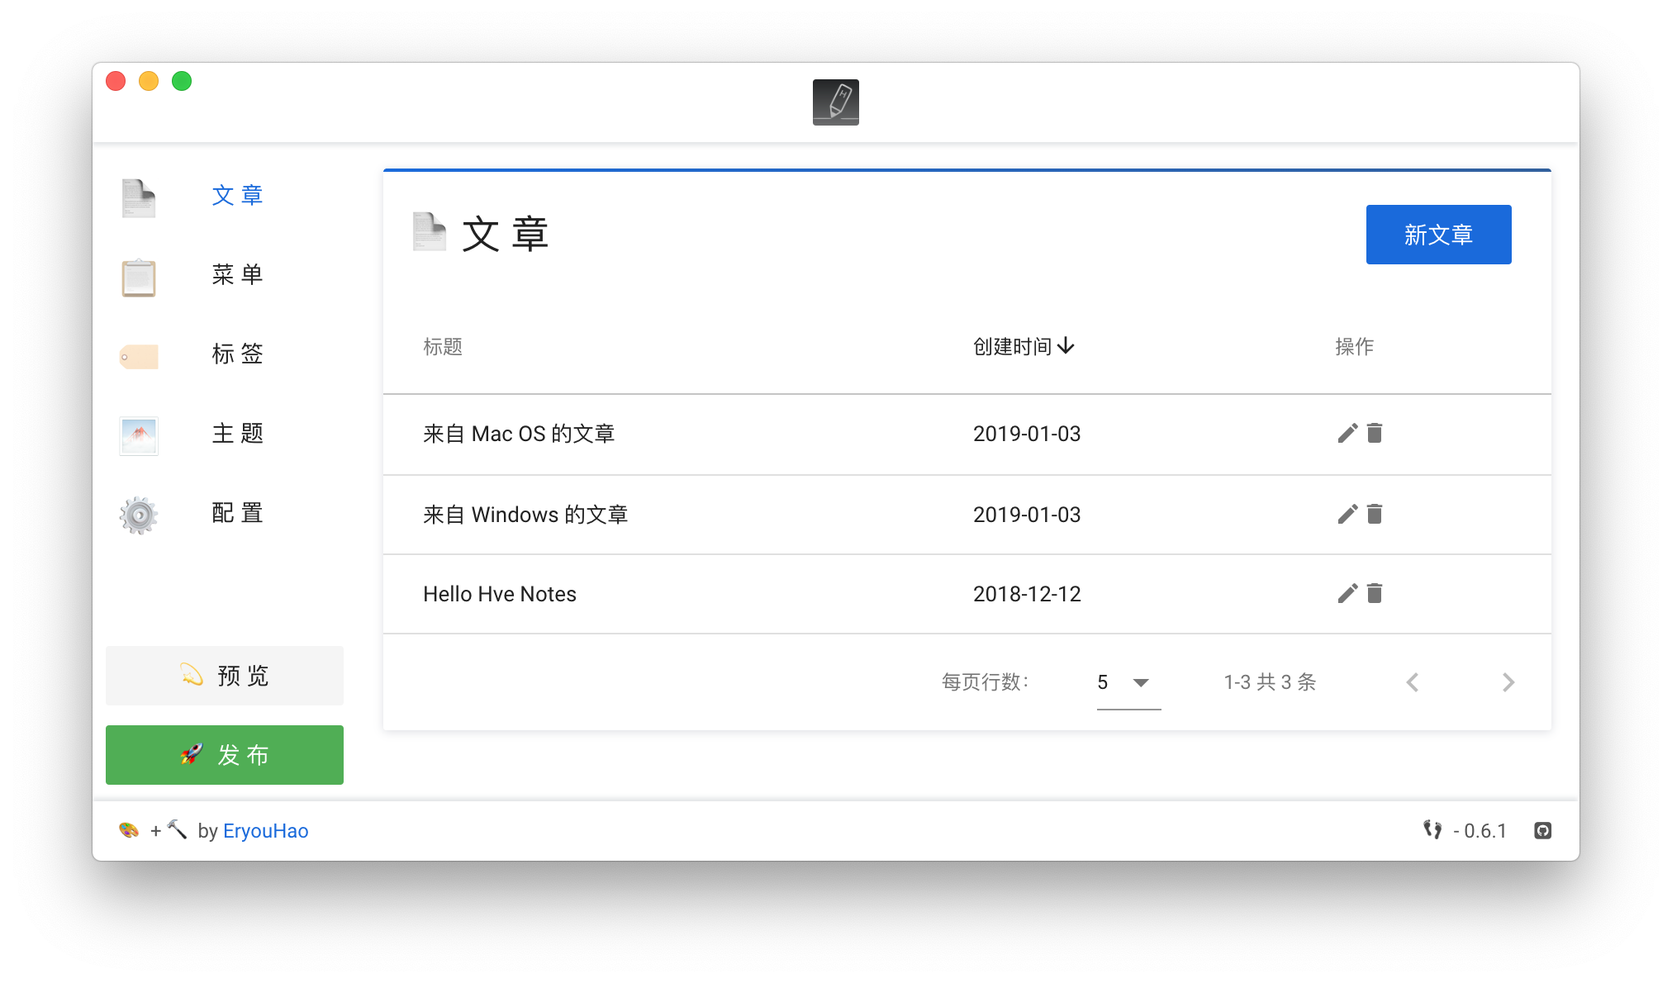
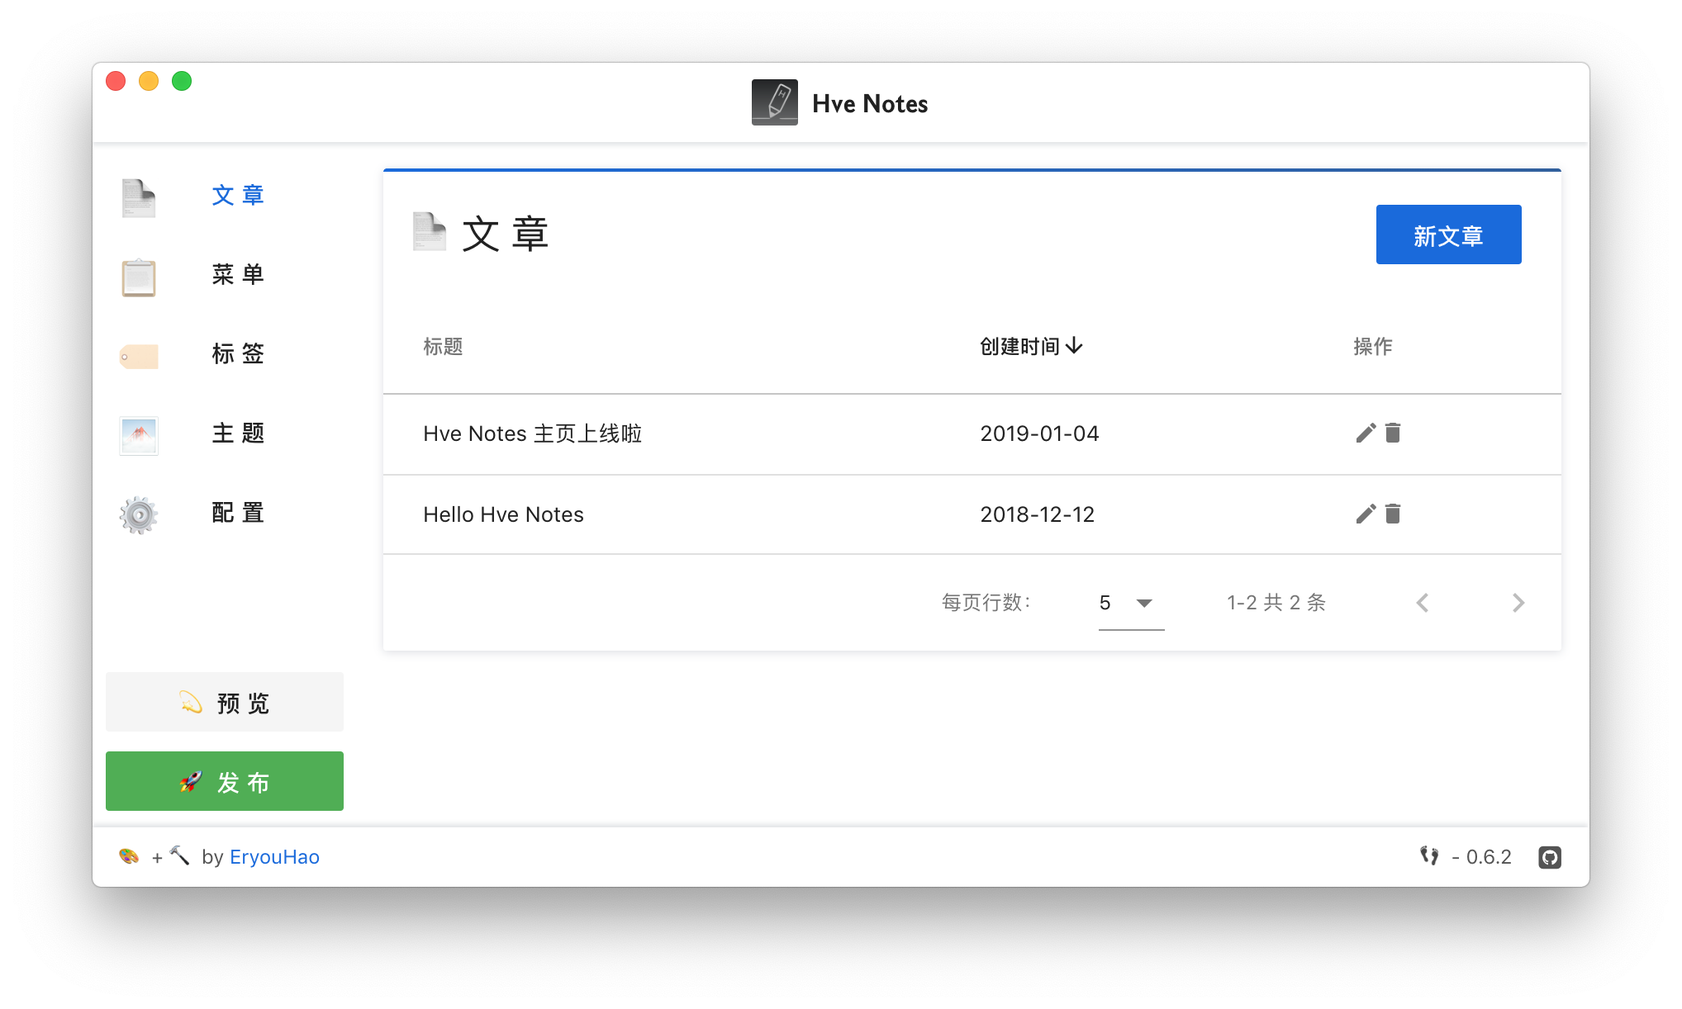
docs: update version

diff --git a/.vuepress/dist/docs/index.html b/.vuepress/dist/docs/index.html
@@ -7,8 +7,8 @@
     <meta name="description" content="Hve Notes">
     <link rel="icon" href="/logo.ico">
     
-    <link rel="preload" href="/assets/css/0.styles.d24fb2f3.css" as="style"><link rel="preload" href="/assets/js/app.9bc21277.js" as="script"><link rel="preload" href="/assets/js/6.00187efa.js" as="script"><link rel="prefetch" href="/assets/js/2.d9c22800.js"><link rel="prefetch" href="/assets/js/3.5a4ba81a.js"><link rel="prefetch" href="/assets/js/4.4b7f58ba.js"><link rel="prefetch" href="/assets/js/5.660c18aa.js"><link rel="prefetch" href="/assets/js/7.9b3d5868.js">
-    <link rel="stylesheet" href="/assets/css/0.styles.d24fb2f3.css">
+    <link rel="preload" href="/assets/css/0.styles.d261f6e4.css" as="style"><link rel="preload" href="/assets/js/app.a743d22b.js" as="script"><link rel="preload" href="/assets/js/6.31f2fc13.js" as="script"><link rel="prefetch" href="/assets/js/2.dea517cc.js"><link rel="prefetch" href="/assets/js/3.37ec507d.js"><link rel="prefetch" href="/assets/js/4.0caf79b4.js"><link rel="prefetch" href="/assets/js/5.87f26443.js"><link rel="prefetch" href="/assets/js/7.f8f392ad.js">
+    <link rel="stylesheet" href="/assets/css/0.styles.d261f6e4.css">
   </head>
   <body>
     <div id="app" data-server-rendered="true"><div class="theme-container"><header class="navbar"><div class="sidebar-button"><svg xmlns="http://www.w3.org/2000/svg" aria-hidden="true" role="img" viewBox="0 0 448 512" class="icon"><path fill="currentColor" d="M436 124H12c-6.627 0-12-5.373-12-12V80c0-6.627 5.373-12 12-12h424c6.627 0 12 5.373 12 12v32c0 6.627-5.373 12-12 12zm0 160H12c-6.627 0-12-5.373-12-12v-32c0-6.627 5.373-12 12-12h424c6.627 0 12 5.373 12 12v32c0 6.627-5.373 12-12 12zm0 160H12c-6.627 0-12-5.373-12-12v-32c0-6.627 5.373-12 12-12h424c6.627 0 12 5.373 12 12v32c0 6.627-5.373 12-12 12z"></path></svg></div> <a href="/" class="home-link router-link-active"><!----> <span class="site-name">𝗛𝘃𝗲 𝗡𝗼𝘁𝗲𝘀</span></a> <div class="links" style="max-width:nullpx;"><div class="search-box"><input aria-label="Search" autocomplete="off" spellcheck="false" value=""> <!----></div> <nav class="nav-links can-hide"><div class="nav-item"><a href="/" class="nav-link">首页</a></div><div class="nav-item"><a href="/docs/" class="nav-link router-link-exact-active router-link-active">文档</a></div><div class="nav-item"><a href="http://fehey.com/" target="_blank" rel="noopener noreferrer" class="nav-link external">
@@ -19,7 +19,7 @@
   示例站点
   <svg xmlns="http://www.w3.org/2000/svg" aria-hidden="true" x="0px" y="0px" viewBox="0 0 100 100" width="15" height="15" class="icon outbound"><path fill="currentColor" d="M18.8,85.1h56l0,0c2.2,0,4-1.8,4-4v-32h-8v28h-48v-48h28v-8h-32l0,0c-2.2,0-4,1.8-4,4v56C14.8,83.3,16.6,85.1,18.8,85.1z"></path> <polygon fill="currentColor" points="45.7,48.7 51.3,54.3 77.2,28.5 77.2,37.2 85.2,37.2 85.2,14.9 62.8,14.9 62.8,22.9 71.5,22.9"></polygon></svg></a></div> <a href="https://github.com/hve-notes/hve-notes" target="_blank" rel="noopener noreferrer" class="repo-link">
     GitHub
-    <svg xmlns="http://www.w3.org/2000/svg" aria-hidden="true" x="0px" y="0px" viewBox="0 0 100 100" width="15" height="15" class="icon outbound"><path fill="currentColor" d="M18.8,85.1h56l0,0c2.2,0,4-1.8,4-4v-32h-8v28h-48v-48h28v-8h-32l0,0c-2.2,0-4,1.8-4,4v56C14.8,83.3,16.6,85.1,18.8,85.1z"></path> <polygon fill="currentColor" points="45.7,48.7 51.3,54.3 77.2,28.5 77.2,37.2 85.2,37.2 85.2,14.9 62.8,14.9 62.8,22.9 71.5,22.9"></polygon></svg></a></nav>  <ul class="sidebar-links"><li><div class="sidebar-group first"><p class="sidebar-heading open"><span>文档</span> <!----></p> <ul class="sidebar-group-items"><li><a href="/docs/" class="active sidebar-link">快速开始</a><ul class="sidebar-sub-headers"></ul></li></ul></div></li></ul> </div> <div class="page"> <div class="content"><h1 id="快速开始"><a href="#快速开始" aria-hidden="true" class="header-anchor">#</a> 快速开始</h1> <h3 id="下载安装"><a href="#下载安装" aria-hidden="true" class="header-anchor">#</a> 下载安装</h3> <p>目前 Hve Notes 还处于比较早期阶段，建议直接下载最新版以使用最新功能</p> <h3 id="进行配置"><a href="#进行配置" aria-hidden="true" class="header-anchor">#</a> 进行配置</h3> <p>进入应用的配置界面，进行应用的初始化配置。</p> <p>域名：Github Pages 对应的域名（例如：<code>http://fehey.com/hve-next</code> 或 <code>http://eryouhao.github.io</code>）</p> <p>仓库：静态文件存放的仓库（例如：<code>hve-next</code>）</p> <p>分支：Github Pages 对应的分支（例如：<code>master</code>）</p> <p>用户名：Git 推送时的用户名，等同于在 Git Repo 中配置 <code>git config user.name &quot;用户名&quot;</code></p> <p>邮箱：Git 推送时的邮箱，等同于在 Git Repo 中配置 <code>git config user.email &quot;邮箱&quot;</code></p> <p>Token: Git 推送时需要的 Token，用来向 Github 提交构建后的文件 <a href="https://github.com/settings/tokens" target="_blank" rel="noopener noreferrer">Github personal access tokens<svg xmlns="http://www.w3.org/2000/svg" aria-hidden="true" x="0px" y="0px" viewBox="0 0 100 100" width="15" height="15" class="icon outbound"><path fill="currentColor" d="M18.8,85.1h56l0,0c2.2,0,4-1.8,4-4v-32h-8v28h-48v-48h28v-8h-32l0,0c-2.2,0-4,1.8-4,4v56C14.8,83.3,16.6,85.1,18.8,85.1z"></path> <polygon fill="currentColor" points="45.7,48.7 51.3,54.3 77.2,28.5 77.2,37.2 85.2,37.2 85.2,14.9 62.8,14.9 62.8,22.9 71.5,22.9"></polygon></svg></a></p> <h3 id="更新菜单"><a href="#更新菜单" aria-hidden="true" class="header-anchor">#</a> 更新菜单</h3> <p>进入应用的菜单界面，进行默认菜单: 首页的 <code>link</code> 更新</p> <div class="tip custom-block"><p class="custom-block-title">提示</p> <p>首页可同配置中的域名，可以手动输入 <code>link</code> 或 选择下拉选择中的 Hompage</p></div> <h3 id="尽情创作"><a href="#尽情创作" aria-hidden="true" class="header-anchor">#</a> 尽情创作</h3> <p>进入应用的文章界面，进行新文章的创作吧！</p> <p>😘Enjoy！</p></div> <div class="page-edit"><!----> <div class="last-updated"><span class="prefix">最后更新于: </span> <span class="time">1/3/2019, 3:03:55 PM</span></div></div> <!----> </div> <!----></div></div>
-    <script src="/assets/js/app.9bc21277.js" defer></script><script src="/assets/js/6.00187efa.js" defer></script>
+    <svg xmlns="http://www.w3.org/2000/svg" aria-hidden="true" x="0px" y="0px" viewBox="0 0 100 100" width="15" height="15" class="icon outbound"><path fill="currentColor" d="M18.8,85.1h56l0,0c2.2,0,4-1.8,4-4v-32h-8v28h-48v-48h28v-8h-32l0,0c-2.2,0-4,1.8-4,4v56C14.8,83.3,16.6,85.1,18.8,85.1z"></path> <polygon fill="currentColor" points="45.7,48.7 51.3,54.3 77.2,28.5 77.2,37.2 85.2,37.2 85.2,14.9 62.8,14.9 62.8,22.9 71.5,22.9"></polygon></svg></a></nav>  <ul class="sidebar-links"><li><div class="sidebar-group first"><p class="sidebar-heading open"><span>文档</span> <!----></p> <ul class="sidebar-group-items"><li><a href="/docs/" class="active sidebar-link">快速开始</a><ul class="sidebar-sub-headers"></ul></li></ul></div></li></ul> </div> <div class="page"> <div class="content"><h1 id="快速开始"><a href="#快速开始" aria-hidden="true" class="header-anchor">#</a> 快速开始</h1> <h3 id="下载安装"><a href="#下载安装" aria-hidden="true" class="header-anchor">#</a> 下载安装</h3> <p>目前 Hve Notes 还处于比较早期阶段，建议直接下载最新版以使用最新功能</p> <h3 id="进行基础配置"><a href="#进行基础配置" aria-hidden="true" class="header-anchor">#</a> 进行基础配置</h3> <p>进入应用的配置界面，进行应用的初始化配置。</p> <p>域名：Github Pages 对应的域名（例如：<code>http://fehey.com/hve-next</code> 或 <code>http://eryouhao.github.io</code>）</p> <p>仓库：静态文件存放的仓库（例如：<code>hve-next</code>）</p> <p>分支：Github Pages 对应的分支（例如：<code>master</code>）</p> <p>用户名：Git 推送时的用户名，等同于在 Git Repo 中配置 <code>git config user.name &quot;用户名&quot;</code></p> <p>邮箱：Git 推送时的邮箱，等同于在 Git Repo 中配置 <code>git config user.email &quot;邮箱&quot;</code></p> <p>Token: Git 推送时需要的 Token，用来向 Github 提交构建后的文件 <a href="https://github.com/settings/tokens" target="_blank" rel="noopener noreferrer">Github personal access tokens<svg xmlns="http://www.w3.org/2000/svg" aria-hidden="true" x="0px" y="0px" viewBox="0 0 100 100" width="15" height="15" class="icon outbound"><path fill="currentColor" d="M18.8,85.1h56l0,0c2.2,0,4-1.8,4-4v-32h-8v28h-48v-48h28v-8h-32l0,0c-2.2,0-4,1.8-4,4v56C14.8,83.3,16.6,85.1,18.8,85.1z"></path> <polygon fill="currentColor" points="45.7,48.7 51.3,54.3 77.2,28.5 77.2,37.2 85.2,37.2 85.2,14.9 62.8,14.9 62.8,22.9 71.5,22.9"></polygon></svg></a></p> <p>CNAME: 若网站有自定义域名，则可通过此设置（例如：<code>fehey.com</code>）</p> <h3 id="更新菜单"><a href="#更新菜单" aria-hidden="true" class="header-anchor">#</a> 更新菜单</h3> <p>进入应用的菜单界面，进行默认菜单: 首页的 <code>link</code> 更新</p> <div class="tip custom-block"><p class="custom-block-title">提示</p> <p>首页可同配置中的域名，可以手动输入 <code>link</code> 或 选择下拉选择中的 Hompage</p></div> <h3 id="更新-gitalk-配置（可选）"><a href="#更新-gitalk-配置（可选）" aria-hidden="true" class="header-anchor">#</a> 更新 Gitalk 配置（可选）</h3> <p><a href="https://github.com/gitalk/gitalk/blob/master/readme-cn.md" target="_blank" rel="noopener noreferrer">Gitalk<svg xmlns="http://www.w3.org/2000/svg" aria-hidden="true" x="0px" y="0px" viewBox="0 0 100 100" width="15" height="15" class="icon outbound"><path fill="currentColor" d="M18.8,85.1h56l0,0c2.2,0,4-1.8,4-4v-32h-8v28h-48v-48h28v-8h-32l0,0c-2.2,0-4,1.8-4,4v56C14.8,83.3,16.6,85.1,18.8,85.1z"></path> <polygon fill="currentColor" points="45.7,48.7 51.3,54.3 77.2,28.5 77.2,37.2 85.2,37.2 85.2,14.9 62.8,14.9 62.8,22.9 71.5,22.9"></polygon></svg></a></p> <h3 id="尽情创作"><a href="#尽情创作" aria-hidden="true" class="header-anchor">#</a> 尽情创作</h3> <p>进入应用的文章界面，进行新文章的创作吧！</p> <p>😘Enjoy！</p></div> <div class="page-edit"><!----> <div class="last-updated"><span class="prefix">最后更新于: </span> <span class="time">1/3/2019, 3:03:55 PM</span></div></div> <!----> </div> <!----></div></div>
+    <script src="/assets/js/app.a743d22b.js" defer></script><script src="/assets/js/6.31f2fc13.js" defer></script>
   </body>
 </html>

diff --git a/.vuepress/dist/index.html b/.vuepress/dist/index.html
@@ -7,8 +7,8 @@
     <meta name="description" content="Hve Notes">
     <link rel="icon" href="/logo.ico">
     
-    <link rel="preload" href="/assets/css/0.styles.d24fb2f3.css" as="style"><link rel="preload" href="/assets/js/app.9bc21277.js" as="script"><link rel="preload" href="/assets/js/5.660c18aa.js" as="script"><link rel="preload" href="/assets/js/3.5a4ba81a.js" as="script"><link rel="prefetch" href="/assets/js/2.d9c22800.js"><link rel="prefetch" href="/assets/js/4.4b7f58ba.js"><link rel="prefetch" href="/assets/js/6.00187efa.js"><link rel="prefetch" href="/assets/js/7.9b3d5868.js">
-    <link rel="stylesheet" href="/assets/css/0.styles.d24fb2f3.css">
+    <link rel="preload" href="/assets/css/0.styles.d261f6e4.css" as="style"><link rel="preload" href="/assets/js/app.a743d22b.js" as="script"><link rel="preload" href="/assets/js/5.87f26443.js" as="script"><link rel="preload" href="/assets/js/3.37ec507d.js" as="script"><link rel="prefetch" href="/assets/js/2.dea517cc.js"><link rel="prefetch" href="/assets/js/4.0caf79b4.js"><link rel="prefetch" href="/assets/js/6.31f2fc13.js"><link rel="prefetch" href="/assets/js/7.f8f392ad.js">
+    <link rel="stylesheet" href="/assets/css/0.styles.d261f6e4.css">
   </head>
   <body>
     <div id="app" data-server-rendered="true"><div class="theme-container no-sidebar hve-home"><header class="navbar"><div class="sidebar-button"><svg xmlns="http://www.w3.org/2000/svg" aria-hidden="true" role="img" viewBox="0 0 448 512" class="icon"><path fill="currentColor" d="M436 124H12c-6.627 0-12-5.373-12-12V80c0-6.627 5.373-12 12-12h424c6.627 0 12 5.373 12 12v32c0 6.627-5.373 12-12 12zm0 160H12c-6.627 0-12-5.373-12-12v-32c0-6.627 5.373-12 12-12h424c6.627 0 12 5.373 12 12v32c0 6.627-5.373 12-12 12zm0 160H12c-6.627 0-12-5.373-12-12v-32c0-6.627 5.373-12 12-12h424c6.627 0 12 5.373 12 12v32c0 6.627-5.373 12-12 12z"></path></svg></div> <a href="/" class="home-link router-link-exact-active router-link-active"><!----> <span class="site-name">𝗛𝘃𝗲 𝗡𝗼𝘁𝗲𝘀</span></a> <div class="links" style="max-width:nullpx;"><div class="search-box"><input aria-label="Search" autocomplete="off" spellcheck="false" value=""> <!----></div> <nav class="nav-links can-hide"><div class="nav-item"><a href="/" class="nav-link router-link-exact-active router-link-active">首页</a></div><div class="nav-item"><a href="/docs/" class="nav-link">文档</a></div><div class="nav-item"><a href="http://fehey.com/" target="_blank" rel="noopener noreferrer" class="nav-link external">
@@ -21,7 +21,7 @@
     GitHub
     <svg xmlns="http://www.w3.org/2000/svg" aria-hidden="true" x="0px" y="0px" viewBox="0 0 100 100" width="15" height="15" class="icon outbound"><path fill="currentColor" d="M18.8,85.1h56l0,0c2.2,0,4-1.8,4-4v-32h-8v28h-48v-48h28v-8h-32l0,0c-2.2,0-4,1.8-4,4v56C14.8,83.3,16.6,85.1,18.8,85.1z"></path> <polygon fill="currentColor" points="45.7,48.7 51.3,54.3 77.2,28.5 77.2,37.2 85.2,37.2 85.2,14.9 62.8,14.9 62.8,22.9 71.5,22.9"></polygon></svg></a></nav>  <ul class="sidebar-links"><li><div class="sidebar-group first"><p class="sidebar-heading open"><span>文档</span> <!----></p> <ul class="sidebar-group-items"><li><a href="/docs/" class="sidebar-link">快速开始</a></li></ul></div></li></ul> </div> <div class="home"><div class="hero"><img src="/logo.png" alt="hero"> <h1>𝗛𝘃𝗲 𝗡𝗼𝘁𝗲𝘀</h1> <p class="description">
       🌈  一个静态博客写作客户端。你可以用它来记录生活、心情、知识、笔记、创意...
-    </p> <!----></div> <div class="features"><div class="feature"><h2>📝</h2> <p>你可以使用最酷的 Markdown 语法，进行快速创作</p></div><div class="feature"><h2>🌉</h2> <p>你可以在文章的任意位置插入图片和文章封面图</p></div><div class="feature"><h2>🏷</h2> <p>你可以对文章进行标签分组</p></div><div class="feature"><h2>📋</h2> <p>你可以自定义菜单，甚至可以创建外部链接菜单</p></div><div class="feature"><h2>💻</h2> <p>你可以在 𝖶𝗂𝗇𝖽𝗈𝗐𝗌 或 𝖬𝖺𝖼𝖮𝖲 设备上使用此客户端</p></div><div class="feature"><h2>🌎</h2> <p>你可以使用 𝖦𝗂𝗍𝗁𝗎𝖻 𝖯𝖺𝗀𝖾𝗌 向世界展示，未来将支持更多平台</p></div></div> <div class="content custom"><div><div class="home-page" data-v-188354ef><div class="action-container" data-v-188354ef><button class="live-btn live-btn-default live-btn-large" data-v-188354ef><!----><span class="text"><!---->𝖧𝗏𝖾 𝖭𝗈𝗍𝖾𝗌 𝖿𝗈𝗋 𝖬𝖺𝖼 -𝗏 𝟢.𝟨.𝟣</span></button> <button class="live-btn live-btn-default live-btn-large" data-v-188354ef><!----><span class="text"><!---->𝖧𝗏𝖾 𝖭𝗈𝗍𝖾𝗌 𝖿𝗈𝗋 𝖶𝗂𝗇𝖽𝗈𝗐𝗌 -𝗏 𝟢.𝟨.𝟣</span></button></div> <div data-v-188354ef><img src="/assets/img/hve-notes-app.ccd29caf.png" alt data-v-188354ef></div> <div class="home-content" data-v-188354ef><div class="star-container" data-v-188354ef><div class="live-tag-container star-tag is-info" data-v-188354ef>𝗦𝘁𝗮𝗿: 0<!----></div></div> <p data-v-188354ef><span class="large-icon" data-v-188354ef>🌱</span> 当然 𝗛𝘃𝗲 𝗡𝗼𝘁𝗲𝘀 还很年轻，有很多不足，但请相信，它会不停向前 <span class="large-icon" data-v-188354ef>🏃</span></p> <p data-v-188354ef>未来，它一定会成为你离不开的伙伴</p> <p data-v-188354ef>尽情发挥你的才华吧！</p> <p data-v-188354ef>😘 𝖤𝗇𝗃𝗈𝗒~</p></div></div></div></div> <!----></div> <!----></div></div>
-    <script src="/assets/js/app.9bc21277.js" defer></script><script src="/assets/js/5.660c18aa.js" defer></script><script src="/assets/js/3.5a4ba81a.js" defer></script>
+    </p> <!----></div> <div class="features"><div class="feature"><h2>📝</h2> <p>你可以使用最酷的 Markdown 语法，进行快速创作</p></div><div class="feature"><h2>🌉</h2> <p>你可以在文章的任意位置插入图片和文章封面图</p></div><div class="feature"><h2>🏷</h2> <p>你可以对文章进行标签分组</p></div><div class="feature"><h2>📋</h2> <p>你可以自定义菜单，甚至可以创建外部链接菜单</p></div><div class="feature"><h2>💻</h2> <p>你可以在 𝖶𝗂𝗇𝖽𝗈𝗐𝗌 或 𝖬𝖺𝖼𝖮𝖲 设备上使用此客户端</p></div><div class="feature"><h2>🌎</h2> <p>你可以使用 𝖦𝗂𝗍𝗁𝗎𝖻 𝖯𝖺𝗀𝖾𝗌 向世界展示，未来将支持更多平台</p></div></div> <div class="content custom"><div><div class="home-page" data-v-8592f188><div class="action-container" data-v-8592f188><button class="live-btn live-btn-default live-btn-large" data-v-8592f188><!----><span class="text"><!---->𝖧𝗏𝖾 𝖭𝗈𝗍𝖾𝗌 𝖿𝗈𝗋 𝖬𝖺𝖼 -𝗏 0.6.2</span></button> <button class="live-btn live-btn-default live-btn-large" data-v-8592f188><!----><span class="text"><!---->𝖧𝗏𝖾 𝖭𝗈𝗍𝖾𝗌 𝖿𝗈𝗋 𝖶𝗂𝗇𝖽𝗈𝗐𝗌 -𝗏 0.6.2</span></button></div> <div data-v-8592f188><img src="/assets/img/hve-notes-app.605a5546.png" alt data-v-8592f188></div> <div class="home-content" data-v-8592f188><div class="star-container" data-v-8592f188><div class="live-tag-container star-tag is-info" data-v-8592f188>𝗦𝘁𝗮𝗿: 0<!----></div></div> <p data-v-8592f188><span class="large-icon" data-v-8592f188>🌱</span> 当然 𝗛𝘃𝗲 𝗡𝗼𝘁𝗲𝘀 还很年轻，有很多不足，但请相信，它会不停向前 <span class="large-icon" data-v-8592f188>🏃</span></p> <p data-v-8592f188>未来，它一定会成为你离不开的伙伴</p> <p data-v-8592f188>尽情发挥你的才华吧！</p> <p data-v-8592f188>😘 𝖤𝗇𝗃𝗈𝗒~</p></div></div></div></div> <!----></div> <!----></div></div>
+    <script src="/assets/js/app.a743d22b.js" defer></script><script src="/assets/js/5.87f26443.js" defer></script><script src="/assets/js/3.37ec507d.js" defer></script>
   </body>
 </html>

diff --git a/.vuepress/dist/404.html b/.vuepress/dist/404.html
@@ -7,11 +7,11 @@
     <meta name="description" content="Hve Notes">
     <link rel="icon" href="/logo.ico">
     
-    <link rel="preload" href="/assets/css/0.styles.d24fb2f3.css" as="style"><link rel="preload" href="/assets/js/app.9bc21277.js" as="script"><link rel="prefetch" href="/assets/js/2.d9c22800.js"><link rel="prefetch" href="/assets/js/3.5a4ba81a.js"><link rel="prefetch" href="/assets/js/4.4b7f58ba.js"><link rel="prefetch" href="/assets/js/5.660c18aa.js"><link rel="prefetch" href="/assets/js/6.00187efa.js"><link rel="prefetch" href="/assets/js/7.9b3d5868.js">
-    <link rel="stylesheet" href="/assets/css/0.styles.d24fb2f3.css">
+    <link rel="preload" href="/assets/css/0.styles.d261f6e4.css" as="style"><link rel="preload" href="/assets/js/app.a743d22b.js" as="script"><link rel="prefetch" href="/assets/js/2.dea517cc.js"><link rel="prefetch" href="/assets/js/3.37ec507d.js"><link rel="prefetch" href="/assets/js/4.0caf79b4.js"><link rel="prefetch" href="/assets/js/5.87f26443.js"><link rel="prefetch" href="/assets/js/6.31f2fc13.js"><link rel="prefetch" href="/assets/js/7.f8f392ad.js">
+    <link rel="stylesheet" href="/assets/css/0.styles.d261f6e4.css">
   </head>
   <body>
-    <div id="app" data-server-rendered="true"><div class="theme-container"><div class="content"><h1>404</h1> <blockquote>Looks like we've got some broken links.</blockquote> <a href="/" class="router-link-active">Take me home.</a></div></div></div>
-    <script src="/assets/js/app.9bc21277.js" defer></script>
+    <div id="app" data-server-rendered="true"><div class="theme-container"><div class="content"><h1>404</h1> <blockquote>That's a Four-Oh-Four.</blockquote> <a href="/" class="router-link-active">Take me home.</a></div></div></div>
+    <script src="/assets/js/app.a743d22b.js" defer></script>
   </body>
 </html>

diff --git a/.vuepress/components/Home/Index.vue b/.vuepress/components/Home/Index.vue
@@ -1,8 +1,8 @@
 <template>
   <div class="home-page">
     <div class="action-container">
-      <l-button size="large" @click="goPage('https://github.com/hve-notes/hve-notes/releases/download/v0.6.1/hve-notes-0.6.1.dmg')">𝖧𝗏𝖾 𝖭𝗈𝗍𝖾𝗌 𝖿𝗈𝗋 𝖬𝖺𝖼 -𝗏 𝟢.𝟨.𝟣</l-button>
-      <l-button size="large" @click="goPage('https://github.com/hve-notes/hve-notes/releases/download/v0.6.1/hve-notes.Setup.0.6.1.exe')">𝖧𝗏𝖾 𝖭𝗈𝗍𝖾𝗌 𝖿𝗈𝗋 𝖶𝗂𝗇𝖽𝗈𝗐𝗌 -𝗏 𝟢.𝟨.𝟣</l-button>
+      <l-button size="large" @click="goPage(`https://github.com/hve-notes/hve-notes/releases/download/v${version}/hve-notes-${version}.dmg`)">𝖧𝗏𝖾 𝖭𝗈𝗍𝖾𝗌 𝖿𝗈𝗋 𝖬𝖺𝖼 -𝗏 {{ version }}</l-button>
+      <l-button size="large" @click="goPage(`https://github.com/hve-notes/hve-notes/releases/download/v${version}/hve-notes.Setup.${version}.exe`)">𝖧𝗏𝖾 𝖭𝗈𝗍𝖾𝗌 𝖿𝗈𝗋 𝖶𝗂𝗇𝖽𝗈𝗐𝗌 -𝗏 {{ version }}</l-button>
     </div>
     <div>
       <img src="../../public/hve-notes-app.png" alt="">
@@ -26,10 +26,12 @@ export default {
   data() {
     return {
       stars: 0,
+      version: '0.6.2',
     }
   },
   created() {
     this.fetchStars()
+    this.fetchVersion()
   },
   methods: {
     goPage(url) {
@@ -39,6 +41,12 @@ export default {
       axios.get('https://api.github.com/repos/hve-notes/hve-notes').then((res) => {
         this.stars = res.data.stargazers_count
       })
+    },
+    async fetchVersion() {
+      const res = await axios.get('https://api.github.com/repos/hve-notes/hve-notes/releases/latest')
+      if (res.status === 200) {
+        this.version = res.data.name.substring(1)
+      }
     },
   },
 }

diff --git a/docs/README.md b/docs/README.md
@@ -3,7 +3,7 @@
 ### 下载安装
 目前 Hve Notes 还处于比较早期阶段，建议直接下载最新版以使用最新功能  
 
-### 进行配置
+### 进行基础配置
 进入应用的配置界面，进行应用的初始化配置。  
 
 域名：Github Pages 对应的域名（例如：`http://fehey.com/hve-next` 或 `http://eryouhao.github.io`）  
@@ -18,6 +18,8 @@
 
 Token: Git 推送时需要的 Token，用来向 Github 提交构建后的文件 [Github personal access tokens](https://github.com/settings/tokens)  
 
+CNAME: 若网站有自定义域名，则可通过此设置（例如：`fehey.com`）  
+
 
 ### 更新菜单
 进入应用的菜单界面，进行默认菜单: 首页的 `link` 更新
@@ -25,6 +27,9 @@ Token: Git 推送时需要的 Token，用来向 Github 提交构建后的文件 
 ::: tip 提示
 首页可同配置中的域名，可以手动输入 `link` 或 选择下拉选择中的 Hompage
 :::
+
+### 更新 Gitalk 配置（可选）
+[Gitalk](https://github.com/gitalk/gitalk/blob/master/readme-cn.md)
 
 ### 尽情创作
 进入应用的文章界面，进行新文章的创作吧！
